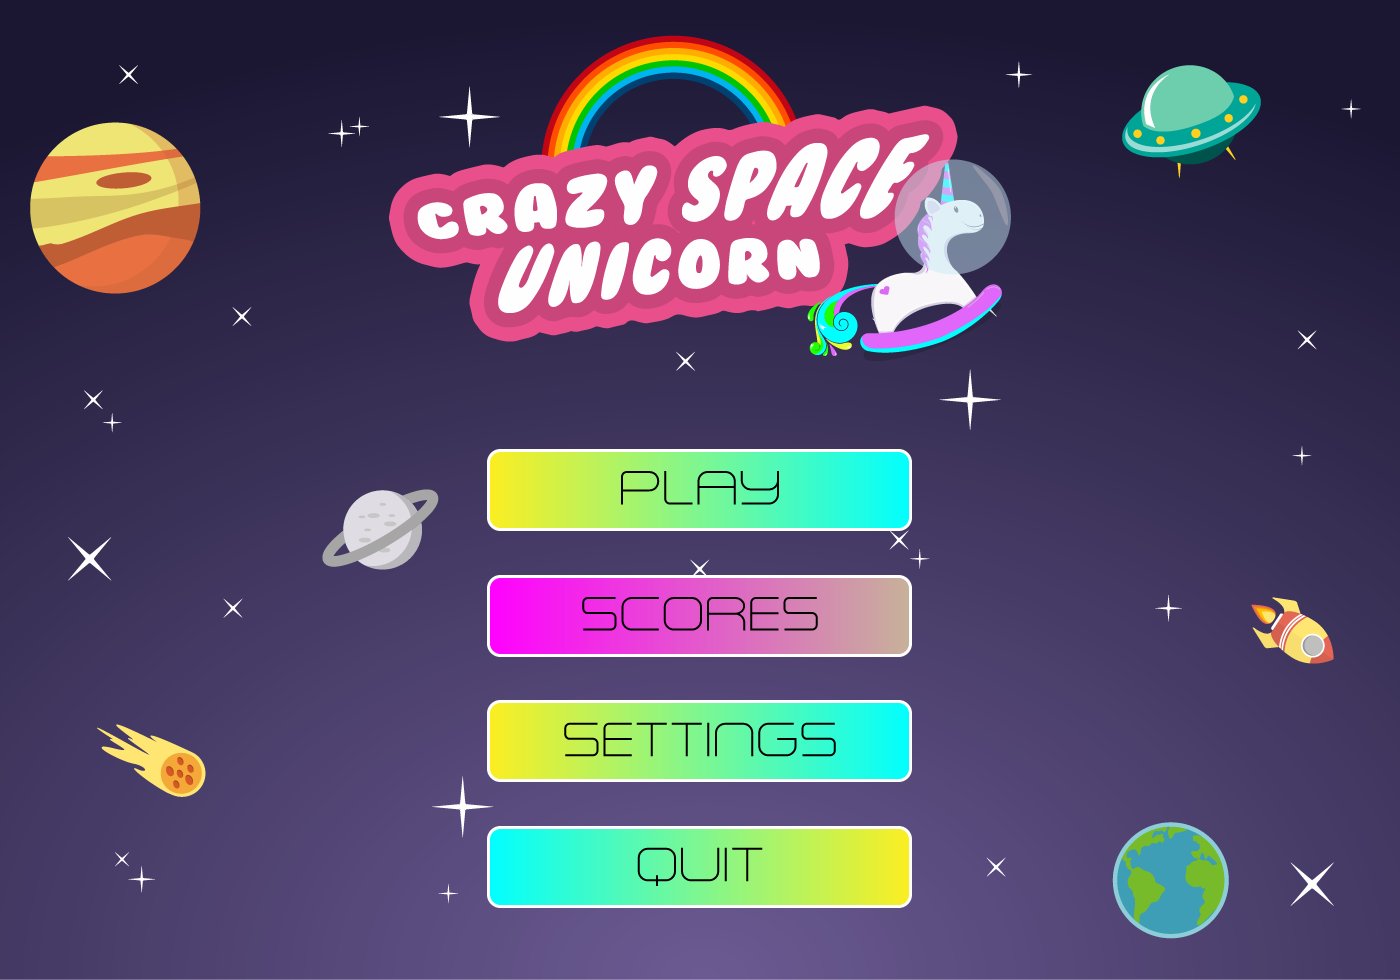
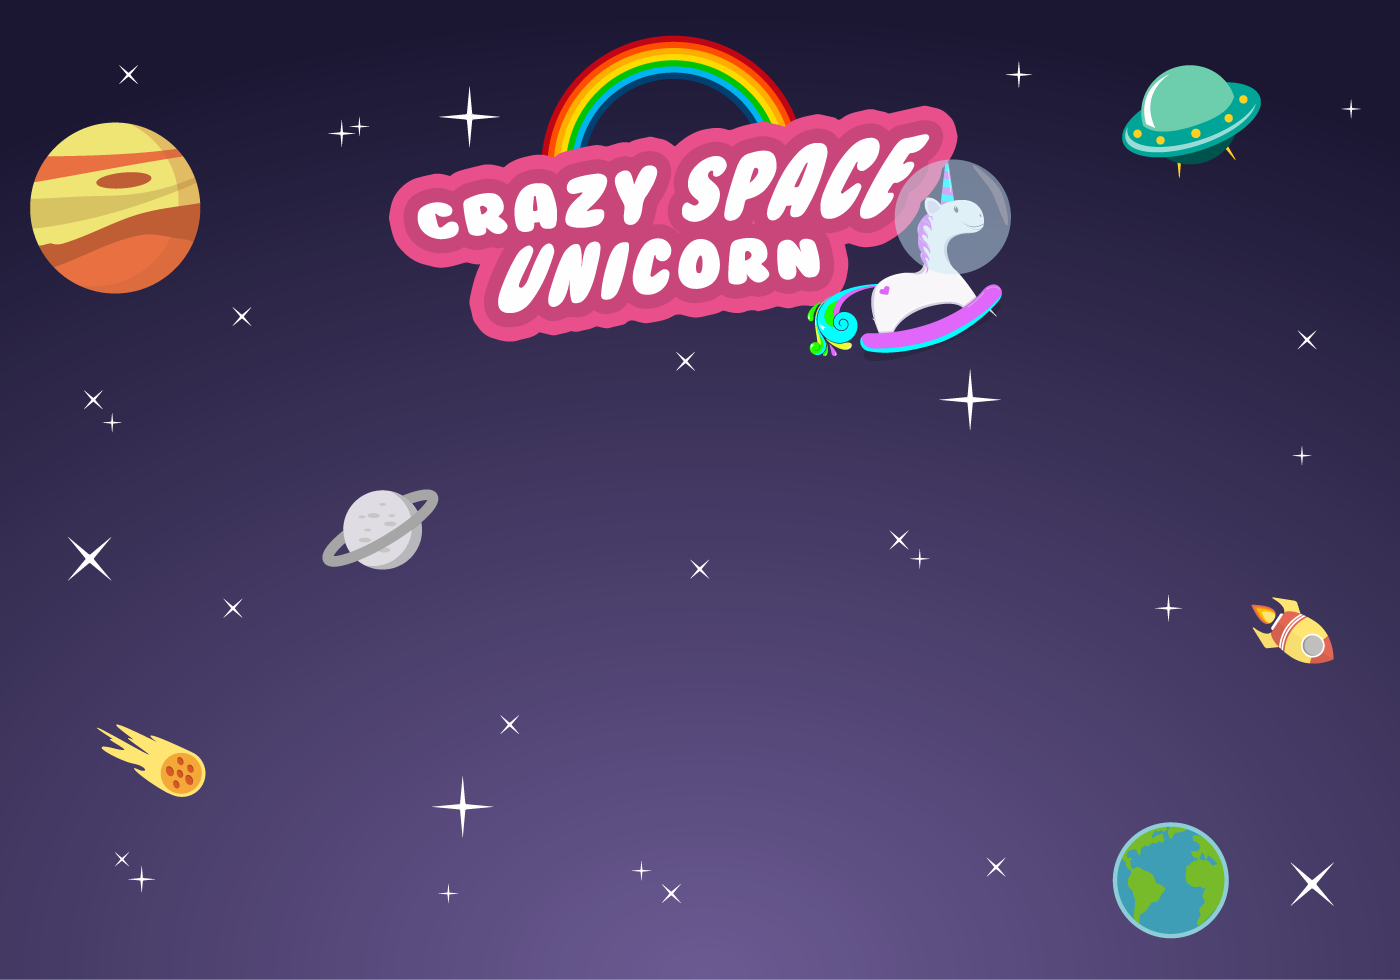
Création de menu et de la page Comment jouer?

diff --git a/frontend/js/Preloader.js b/frontend/js/Preloader.js
@@ -10,8 +10,8 @@ PhaserGame.Preloader.prototype = {
 	preload: function() {
 
         // Barre de chargement
-        var preloadbarPos = new Phaser.Point( (game.stage.height/2) - 131.5, (game.stage.height/2) - 58);
-        this.preloadBar = this.add.sprite(preloadbarPos.x, preloadbarPos.y, 'preloaderBar');
+        //var preloadbarPos = new Phaser.Point( (game.stage.height/2) - 131.5, (game.stage.height/2) - 58);
+        this.preloadBar = this.add.sprite((PhaserGame.width*0.5)-131.5, (PhaserGame.height*0.5)-58, 'preloaderBar');
         this.load.setPreloadSprite(this.preloadBar);
 
         /** Level **/
@@ -25,7 +25,13 @@ PhaserGame.Preloader.prototype = {
 
         /** Menu **/
         this.load.image('menuBackground',   'assets/img/menu/menu_background.jpg');
+        this.load.image('menu-background',   'assets/img/menu/menu-background.png');
         this.load.image('mainMenu',         'assets/img/menu/main_menu.png');
+        this.load.spritesheet('button-start',   'assets/img/menu/btn-start.png', 425, 82);
+        this.load.spritesheet('button-score',   'assets/img/menu/btn-score.png', 425, 82);
+        this.load.spritesheet('button-controls',   'assets/img/menu/btn-controls.png', 425, 82);
+        this.load.spritesheet('button-credits',   'assets/img/menu/btn-credits.png', 425, 82);
+        this.load.image('howToPlay',         'assets/img/menu/how_to_play.png');
 
         /** Story Quest **/
         // this.load.image('img name',   'path/to/file');
@@ -33,7 +39,7 @@ PhaserGame.Preloader.prototype = {
 	},
 	create: function() {
 
-        this.game.state.start('MainMenu');
+                this.game.state.start('MainMenu');
 	}
 };
 

diff --git a/frontend/js/MainMenu.js b/frontend/js/MainMenu.js
@@ -9,11 +9,30 @@ PhaserGame.MainMenu = function(game) {};
 PhaserGame.MainMenu.prototype = {
 	create: function() {
 
-		this.mainMenuButton = this.add.button(0, 0, 'mainMenu', this.displayWorldMap, this);
+		this.mainMenu = this.add.sprite(0, 0, 'mainMenu');
+
+		var scalex = PhaserGame.width / this.mainMenu.width;
+        var scaley = PhaserGame.height / this.mainMenu.height;
+        this.mainMenu.scale.setTo(scalex, scaley);
+
+        var buttons = {
+            button1:{ y:450, image:'button-start', fonction:this.displayWorldMap },
+            button2:{ y:575, image:'button-score', fonction:'' },
+            button3:{ y:700, image:'button-controls', fonction:this.displayHowToPlay },
+            button4:{ y:825, image:'button-credits', fonction:'' },
+        };
+
+        for(var key in buttons) {
+        	this.startButton = this.add.button(485*scalex, buttons[key].y*scaley, buttons[key].image, buttons[key].fonction, this, 1, 0);
+        	this.startButton.scale.setTo(scalex,scaley);
+        }
 	},
 	displayWorldMap: function() {
 
 		this.game.state.start('WorldMap');
+	},
+	displayHowToPlay: function() {
+		this.game.state.start('HowToPlay');
 	}
 };
 

diff --git a/frontend/js/HowToPlay.js b/frontend/js/HowToPlay.js
@@ -1,0 +1,29 @@
+/**
+ *
+ * 4. World Map
+ *
+ **/
+
+PhaserGame.HowToPlay = function(game) {};
+
+PhaserGame.HowToPlay.prototype = {
+    create: function() {
+        this.menuBackground = this.add.sprite(0,0,'menu-background');
+        var scalex = PhaserGame.width / this.menuBackground.width;
+        var scaley = PhaserGame.height / this.menuBackground.height;
+        this.menuBackground.scale.setTo(scalex, scaley);
+
+        this.howToPlay = this.add.button(0, 0, 'howToPlay', this.displayMainMenu, this);
+        scalex = PhaserGame.width / this.howToPlay.width;
+        scaley = PhaserGame.height / this.howToPlay.height;
+        this.howToPlay.scale.setTo(scalex, scaley);
+
+    },
+    displayMainMenu: function() {
+        this.game.state.start('MainMenu');
+    }
+};
+
+game.state.add('HowToPlay', PhaserGame.HowToPlay);
+
+console.log('End of HowToPlay.js');

diff --git a/frontend/css/client.css b/frontend/css/client.css
@@ -21,9 +21,9 @@ header > img {
 }
 
 #crazyUnicorn {
-    margin: 0 auto 40px auto;
-    width: 950px;
-    height: 500px;
+    margin: 0 auto;
+    width: 933px;
+    height: 653px;
 
     border-radius: 5px;
     border: 6px solid #c9467a;

diff --git a/backend/webServer.js b/backend/webServer.js
@@ -3,7 +3,7 @@
 var express    = require('express');
 var path       = require('path');
 var app        = express();
-var listenPort = 3000;
+var listenPort = 80;
 
 
 // Serve static file

diff --git a/frontend/js/Boot.js b/frontend/js/Boot.js
@@ -4,8 +4,8 @@
  *
  **/
 
-var width = 950;
-var height = 500;
+var width = 1400/1.5;
+var height = 980/1.5;
 
 var game = new Phaser.Game(width, height, Phaser.AUTO, 'crazyUnicorn');
 
